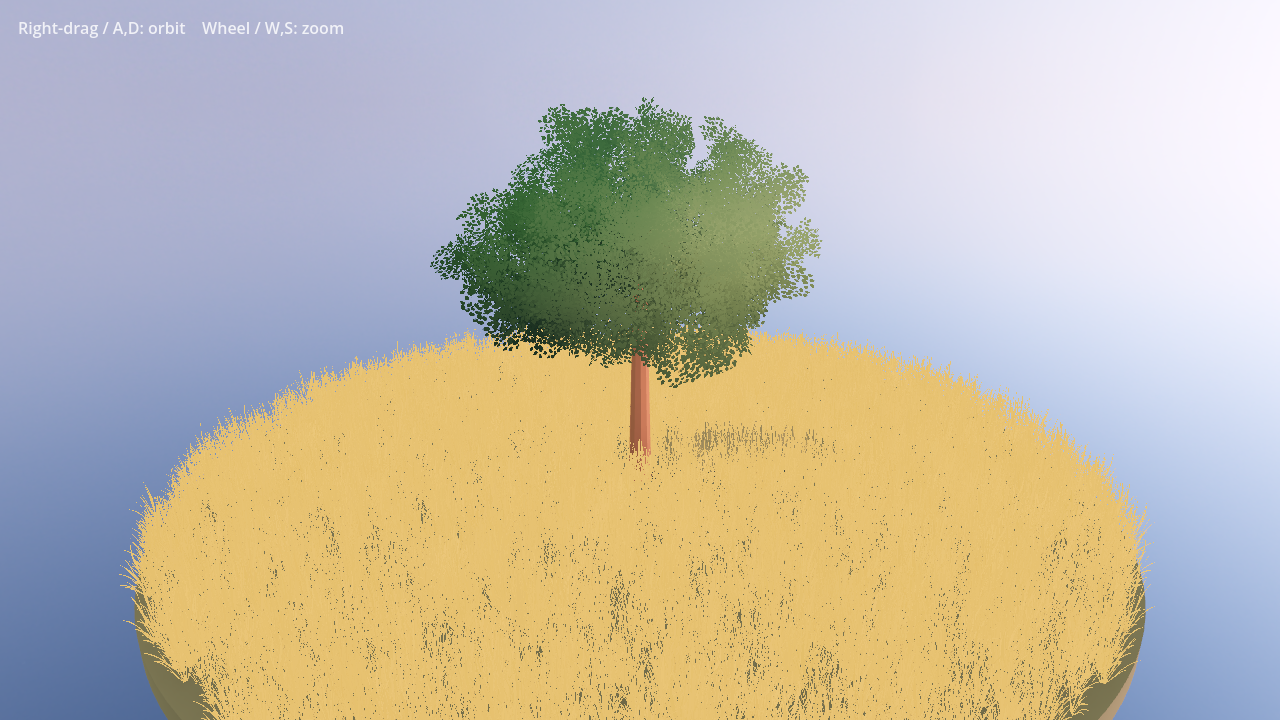
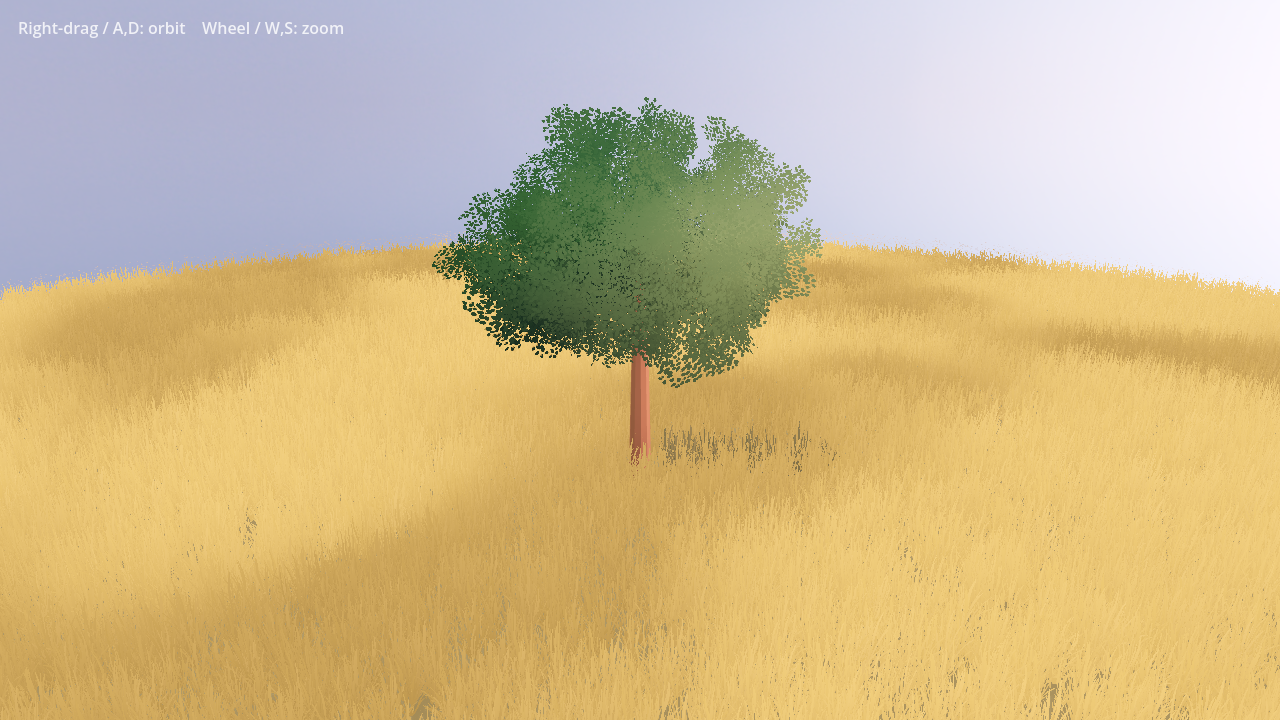
Document and preserve current vegetation prototype for research handoff

diff --git a/docs/RESEARCH_CONTEXT.md b/docs/RESEARCH_CONTEXT.md
@@ -1,0 +1,76 @@
+# Research context for ChatGPT and future contributors
+
+Read this before proposing changes to the vegetation. The source of truth for
+current numeric parameters is `scripts/vegetation_test.gd`; this note explains
+the intent and the result of previous visual tests.
+
+## Art direction and acceptance
+
+- Stylized, fresh, quiet color blocks; *less is more*. Texture alpha defines
+  plant silhouettes, while the engine supplies volume, lighting and shadows.
+- Do not paint directional shadow, strong color contrast, random mottling or
+  photoreal leaf detail into the grass/tree textures.
+- Test from gameplay-scale and overhead cameras in Godot Forward+, not just a
+  Blender preview. Compare screenshots and dynamic wind over time.
+- Grass is a continuous, dense, roughly 0.8–1 m tall natural straw meadow,
+  not short lawn or scattered decoration. Do not change its point distribution
+  or density merely to add randomness; the current distribution was accepted.
+- The crown must be broad and dense, made from many irregularly oriented small
+  foliage cards. Keep one comparatively thin, straight trunk. Avoid low
+  decorative branching or a handful of large upright planes.
+
+## Current accepted implementation
+
+- Grass: `grass_star_3card_v6.glb`, `grass_tuft_straw_minimal_v5.png`, 63,000
+  instances in 4 m chunks on a 24 m radius test ground. Grass-card normals
+  point upward; the cutout texture is essentially one RGB color.
+- Grass texture mipmaps are enabled to reduce distant cutout aliasing. They do
+  not themselves solve gaps between the alpha-cut blades.
+- A restrained height-only tone gives roots `0.90` and tips `1.045`; do not
+  replace it with painted gradients or strong directional shadow.
+- The visible ground color is `#968A55`. This similar, darker straw hue makes
+  gaps between blades read as internal depth instead of green needle noise.
+  Future biomes should pair their grass and ground-root palette, not force one
+  global ground color across every terrain region.
+- `vegetation_wind.gdshader` samples a seamless OpenSimplex-derived world
+  noise texture for moving tonal waves and small vertex displacement. A cubic
+  Bezier response narrows dark-band occupancy without turning contours into
+  regular stripes. A second, slow time-only noise envelope varies whole-field
+  wind strength smoothly between roughly 45% and 115%, affecting both sway
+  and tonal bands. Local gusts still move through the field.
+- Tree: `tree_foliage_480card_v8.glb` with a restrained sparse leaf-cluster
+  alpha texture, volumetric canopy normals and a single straight trunk. The
+  tree currently uses a separate lightweight sway fallback.
+- Rosendal Park Sunset Pure Sky, directional sun, ACES, SSAO and mild glow
+  provide the lighting baseline. Dense grass and leaf-card shadows are off to
+  avoid dark card-shaped noise; tree trunk shadows remain.
+
+## Experiments not to reintroduce without a specific new reason
+
+- Grass distance/alpha/chunk fade made the meadow disappear in the test view.
+  It was removed. Do not equate fading out grass with solved LOD.
+- Strong transmission/backlighting made the grass look more realistic than
+  cartoon-stylized and was removed. A tiny invisible setting was not retained.
+- A stronger root-to-tip gradient (`0.82` to `1.08`) became too realistic;
+  `0.87` to `1.06` was still too strong. The accepted range is above.
+- The previous dark olive ground (`#696C48`) showed through the sparse alpha
+  texture as deep green needles. Mipmaps alone did not solve that hue contrast.
+- Do not add high-frequency random colors, physical per-blade simulation or
+  conspicuous planar leaf-card self-shadowing without an in-engine comparison.
+
+## How to hand off a research task
+
+In a normal ChatGPT **Chat** conversation, cite primary sources and return a
+short GitHub Issue draft with these sections:
+
+1. The specific visual or technical problem, with a screenshot and Godot
+   viewing condition where useful.
+2. Two or three source-backed techniques, with exact links and version notes.
+3. What to try first in this project, referring to existing files/parameters.
+4. Risks to the stylized art direction, density and performance.
+5. A falsifiable in-engine test and rollback condition.
+
+Research is not authorization to change the project. Codex implements one
+approved, bounded Issue at a time and verifies it in Godot. Distinguish cited
+facts from hypotheses, and do not present a different engine's feature as a
+Godot 4.6 feature without checking the Godot documentation.

diff --git a/README.md b/README.md
@@ -1,0 +1,45 @@
+# Prism Route — vegetation rendering prototype
+
+This Godot 4.6 Forward+ project is a small, runnable test scene for the game's
+stylized grass, tree, wind and sky. It is **not** the full game or the Rhino
+terrain. The prototype deliberately uses a circular ground and one tree so
+rendering decisions can be judged in-engine.
+
+## Open and inspect
+
+Open `project.godot` in Godot 4.6 and run the main scene, or open
+`scenes/vegetation_test.tscn`. Right-drag / A,D rotates the camera; mouse wheel
+/ W,S changes distance. The two curated captures are
+`screenshots/vegetation_test.png` and `screenshots/vegetation_test_top.png`.
+Always judge changes in the actual Godot Forward+ scene, not solely in Blender.
+
+## Project layout
+
+- `scenes/` — Godot scene files.
+- `scripts/` — scene generation and orbit camera scripts.
+- `assets/vegetation/models/` — the current grass and tree GLBs.
+- `assets/vegetation/textures/` — mostly flat-color cutout textures.
+- `assets/vegetation/shaders/vegetation_wind.gdshader` — foliage lighting,
+  grass wind field and tonal wave.
+- `assets/environment/hdri/` — the Rosendal Park Sunset Pure Sky panorama.
+- `docs/RESEARCH_CONTEXT.md` — current art direction, tested decisions and
+  guidance for research tasks.
+
+The original Rhino terrain and Blender source files live outside this small
+Godot repository. Do not assume they are available to a GitHub-only reader.
+The HDRI is included so the test scene remains runnable; check its source
+license before any public redistribution of the repository.
+
+## Current test, 2026-09-19
+
+The 24 m radius ground has 63,000 grass instances in 4 m MultiMesh chunks,
+preserving the density of the earlier 8 m / 7,000-instance test. One grass
+instance has three crossed cards with double-sided geometry, approximately
+0.83–1.10 m tall after instance scaling. The tree crown uses 480 foliage
+cards. The grass color is restrained straw yellow; the underlying ground is a
+slightly darker and greyer related hue (`#968A55`).
+
+The grass uses one continuous world-space noise field for small vertex sway
+and moving light/dark wind bands. A separate slow temporal noise modulates the
+overall wind intensity. See `docs/RESEARCH_CONTEXT.md` for the exact tested
+choices and rejected visual approaches.
